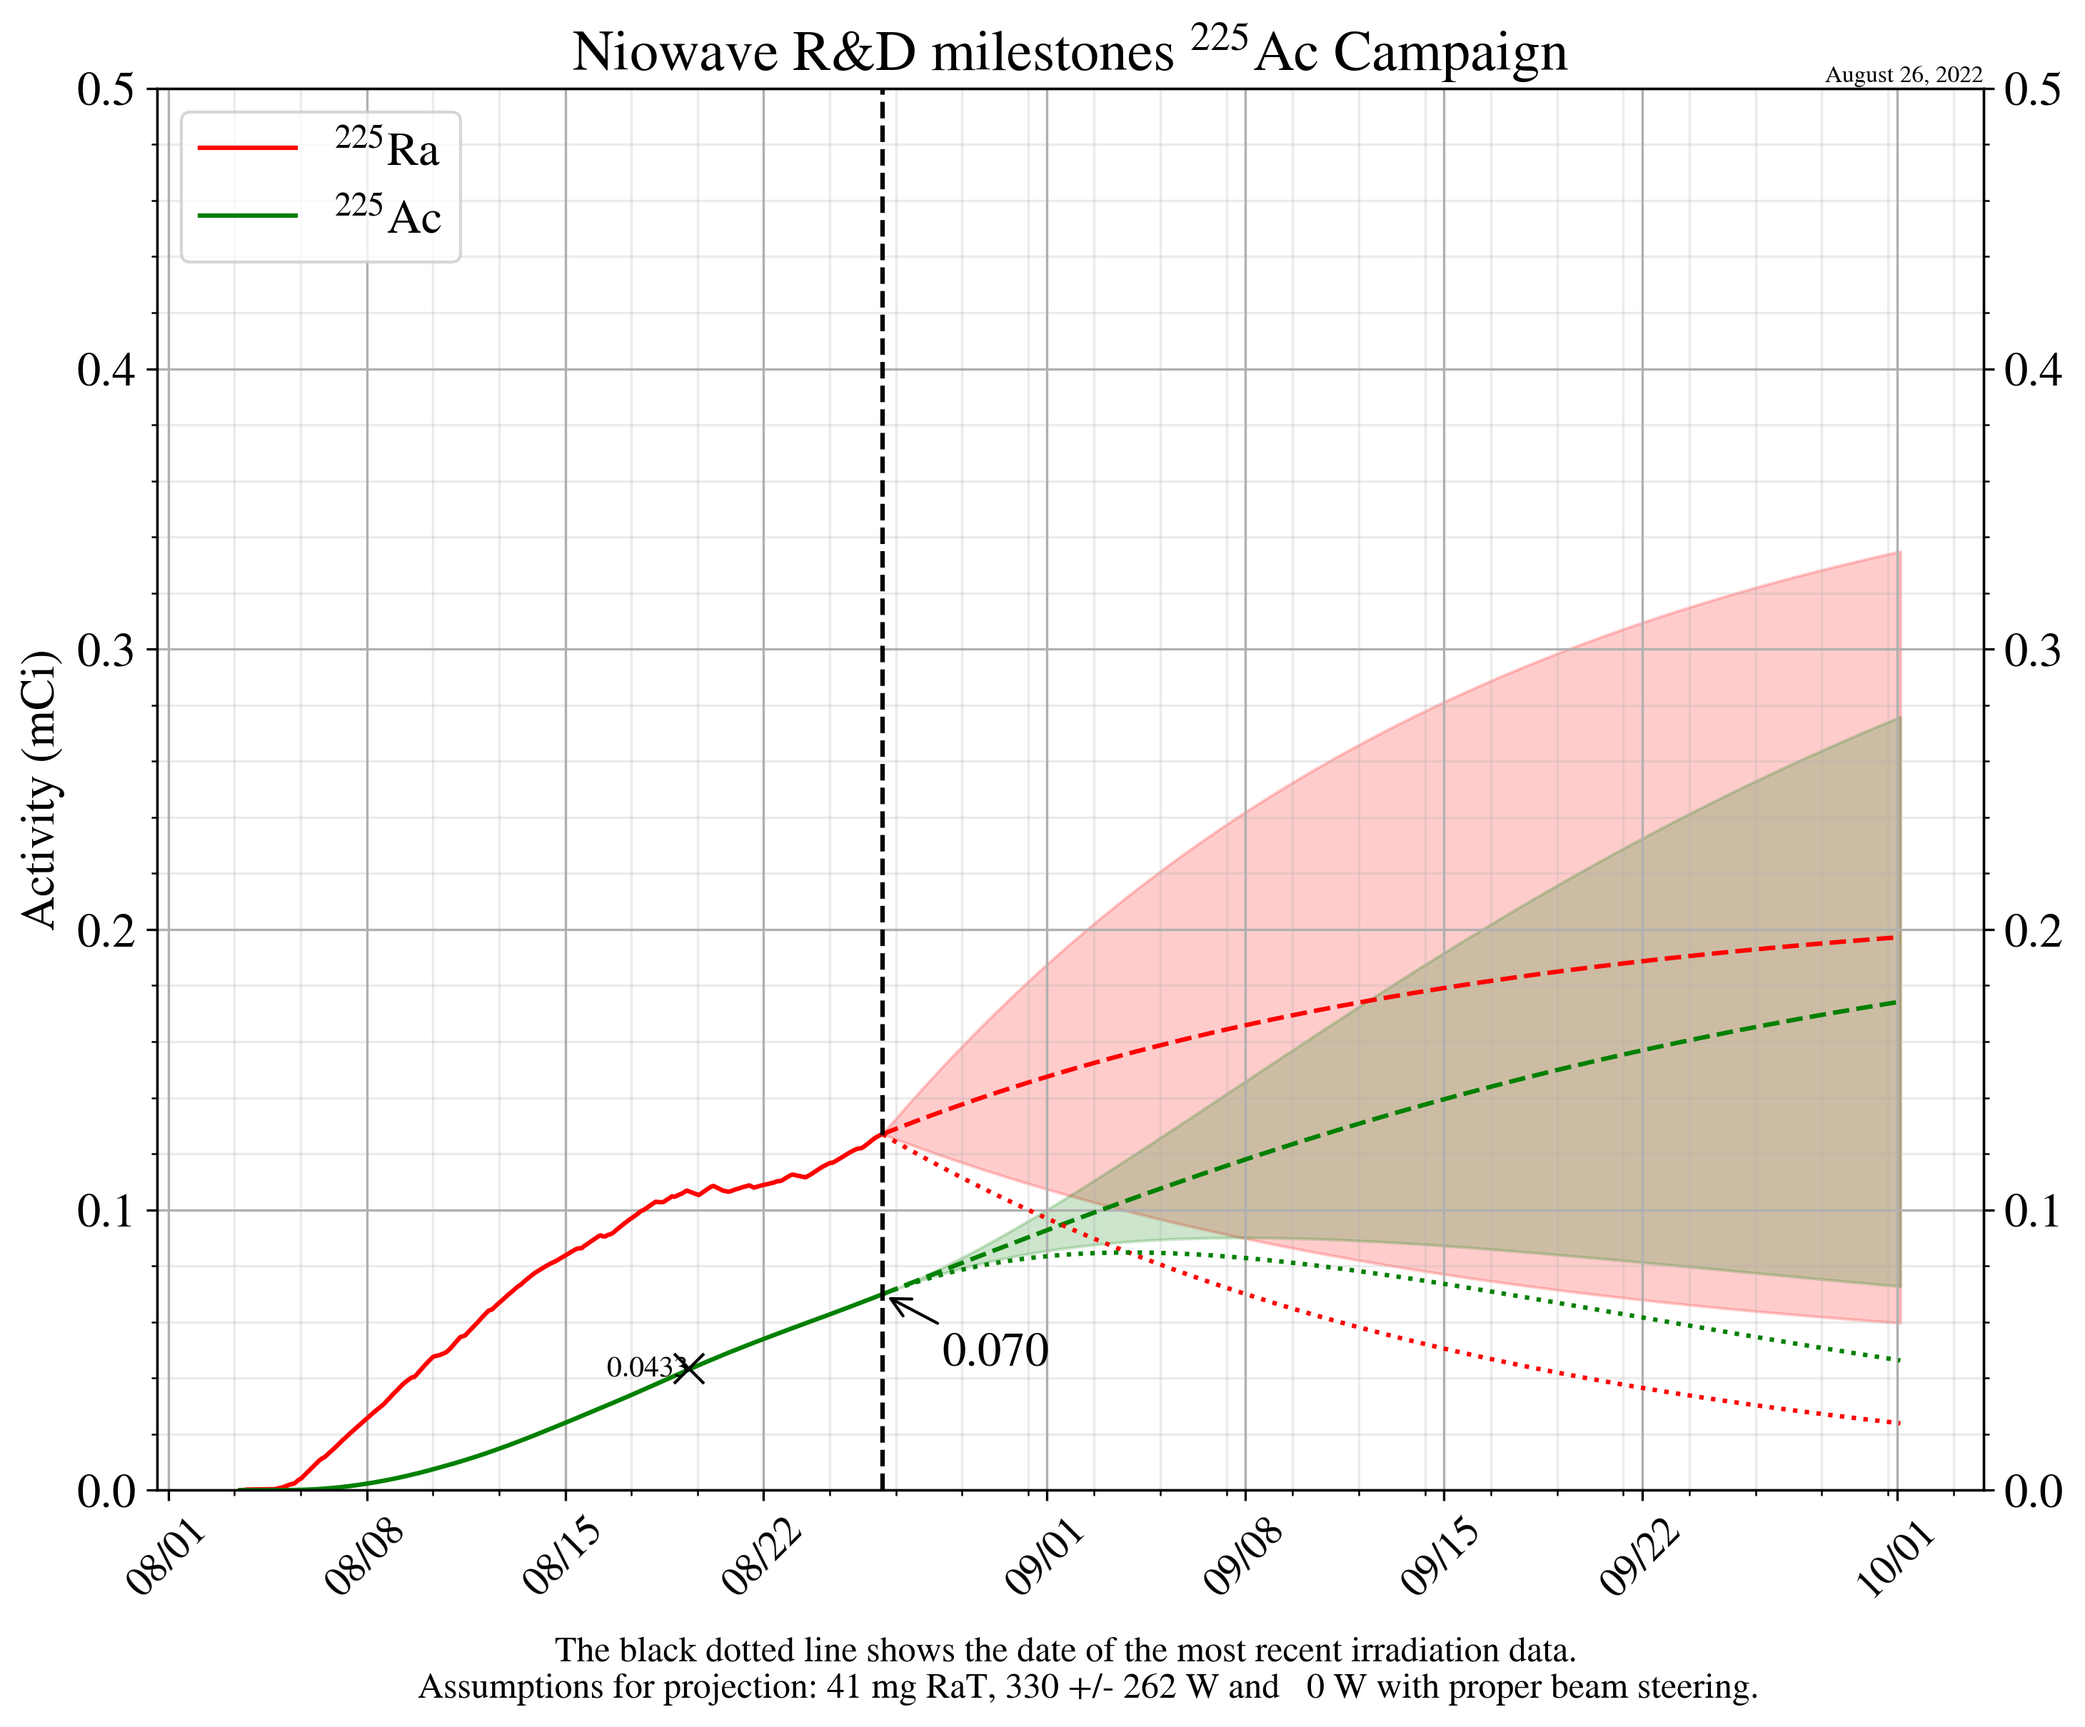
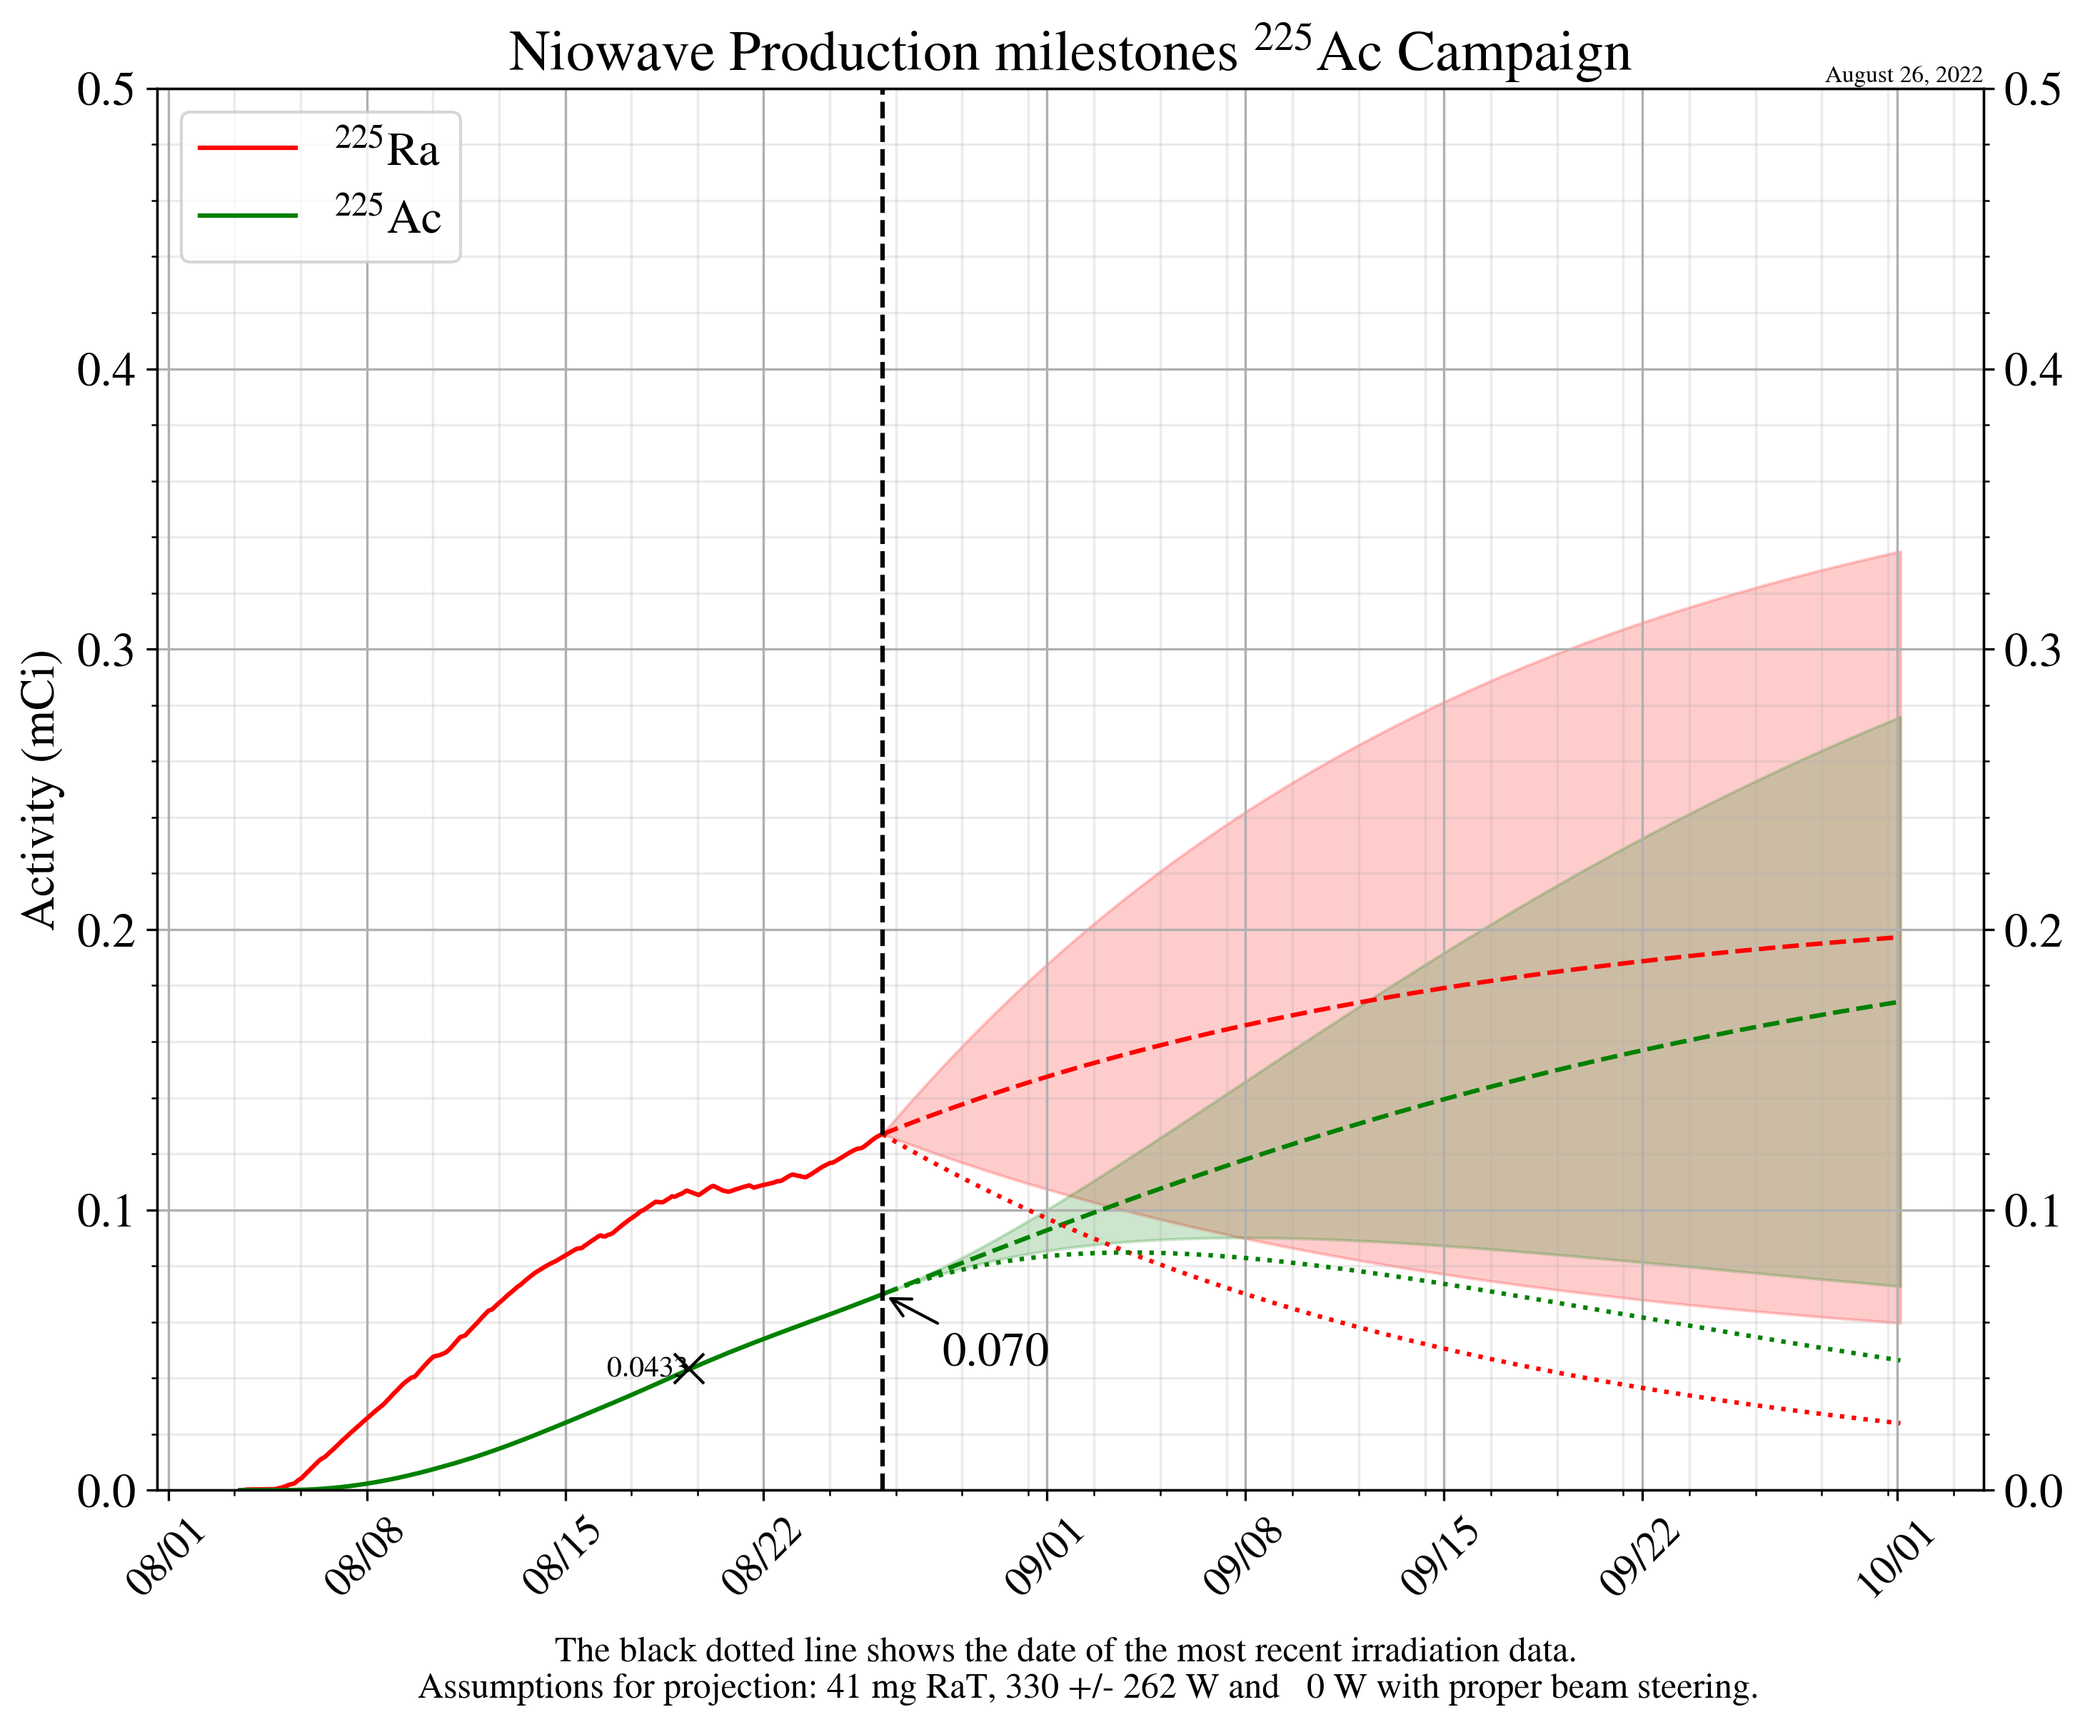
Subtle plot title change

Changed region(s): [[0.2493, 0.0, 0.7791, 0.062]]

diff --git a/Ac_growth.py b/Ac_growth.py
@@ -193,13 +193,10 @@ def Ac_growth(beam_data):
     
     # Create a series of datetime objects with parameters from meta data for projection
     dates = [End + DT.timedelta(seconds=x*meta["Project dt (s)"]) for x in range(int(86400*meta["Project length (days)"]/meta["Project dt (s)"]))]
-    DF_proj = pd.DataFrame(columns=masked_df.columns)
-
 
     #######################
     # Projections         #
     #######################
-    
     DF_proj = pd.DataFrame(columns=masked_df.columns)
     DF_proj["Date and Time"] = dates
     DF_proj["Integrated Power (kWhr from Acc)"] = Projected_power
@@ -296,7 +293,7 @@ def Ac_growth(beam_data):
                 
     ax.set_xticklabels(ax.get_xticklabels(), rotation = 45, fontsize = 14);
     ax.set(
-         title      = r'Niowave R&D milestones $^{225}$Ac Campaign',
+         title      = r'Niowave Production Milestones $^{225}$Ac Campaign',
          ylabel     = r'Activity (mCi)',
          ylim       = ylim,
          yscale     = 'linear'
